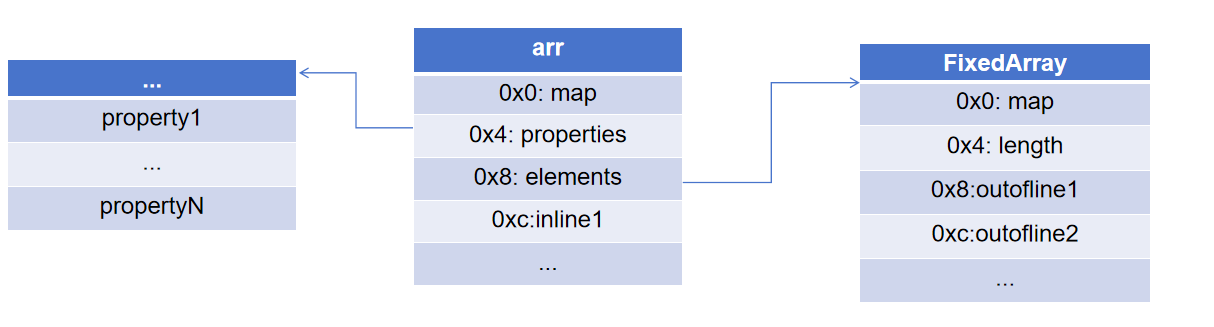
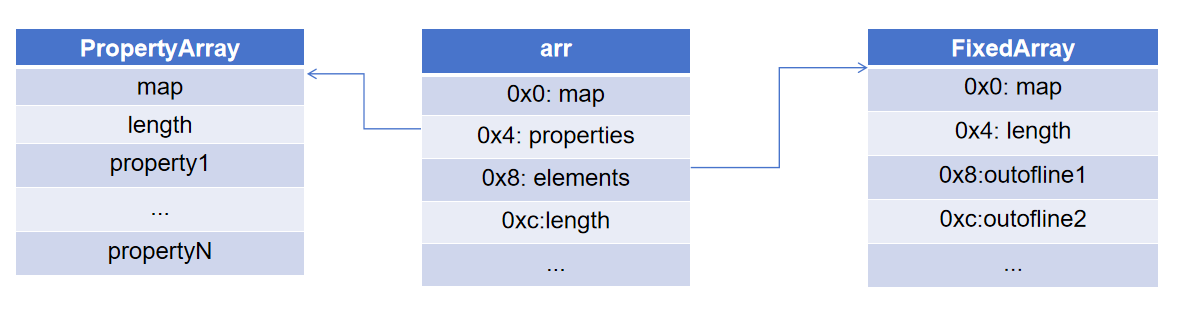
Site updated: 2024-12-20 15:33:05

diff --git a/2024/12/11/V8-数组的内存布局/index.html b/2024/12/11/V8-数组的内存布局/index.html
@@ -30,7 +30,7 @@
 <meta property="og:locale" content="en_US">
 <meta property="og:image" content="http://example.com/images/redefine-og.webp">
 <meta property="article:published_time" content="2024-12-11T11:28:50.000Z">
-<meta property="article:modified_time" content="2024-12-11T12:11:57.239Z">
+<meta property="article:modified_time" content="2024-12-20T07:31:19.917Z">
 <meta property="article:author" content="John Doe">
 <meta name="twitter:card" content="summary">
 <meta name="twitter:image" content="http://example.com/images/redefine-og.webp">
@@ -266,8 +266,8 @@
     
         <span class="article-date article-meta-item">
             <i class="fa-regular fa-wrench"></i>&nbsp;
-            <span class="desktop">2024-12-11 20:11:57</span>
-            <span class="mobile">2024-12-11 20:11:57</span>
+            <span class="desktop">2024-12-20 15:31:19</span>
+            <span class="mobile">2024-12-20 15:31:19</span>
             <span class="hover-info">Updated</span>
         </span>
     
@@ -294,10 +294,15 @@
 
 
 		<div class="article-content markdown-body px-2 sm:px-6 md:px-8 pb-8">
-			<h1 id="浮点型数组"><a href="#浮点型数组" class="headerlink" title="浮点型数组"></a>浮点型数组</h1><img lazyload src="/images/loading.svg" data-src="/2024/12/11/V8-%E6%95%B0%E7%BB%84%E7%9A%84%E5%86%85%E5%AD%98%E5%B8%83%E5%B1%80/image-1.png" class title="This is an 1.png">
+			<h1 id="浮点型数组"><a href="#浮点型数组" class="headerlink" title="浮点型数组"></a>浮点型数组</h1><h3 id="定义方式：let-arr-1-1-2-2-3-3-4-4"><a href="#定义方式：let-arr-1-1-2-2-3-3-4-4" class="headerlink" title="定义方式：let arr[1.1, 2.2, 3.3, 4.4];"></a>定义方式：let arr[1.1, 2.2, 3.3, 4.4];</h3><p>js数组也可以使用属性的形式访问: 例如arr.a&#x3D;1; 这个属性a在PropertyArray中的outofline中存储。</p>
+<img lazyload src="/images/loading.svg" data-src="/2024/12/11/V8-%E6%95%B0%E7%BB%84%E7%9A%84%E5%86%85%E5%AD%98%E5%B8%83%E5%B1%80/image-1.png" class title="This is an 1.png">
 
 
-<h1 id="对象型数组"><a href="#对象型数组" class="headerlink" title="对象型数组"></a>对象型数组</h1><img lazyload src="/images/loading.svg" data-src="/2024/12/11/V8-%E6%95%B0%E7%BB%84%E7%9A%84%E5%86%85%E5%AD%98%E5%B8%83%E5%B1%80/image-2.png" class title="This is an 2.png">
+<h1 id="对象型数组"><a href="#对象型数组" class="headerlink" title="对象型数组"></a>对象型数组</h1><h3 id="定义方式：let-arr-1-2"><a href="#定义方式：let-arr-1-2" class="headerlink" title="定义方式：let arr[{1},{2}];"></a>定义方式：let arr[{1},{2}];</h3><img lazyload src="/images/loading.svg" data-src="/2024/12/11/V8-%E6%95%B0%E7%BB%84%E7%9A%84%E5%86%85%E5%AD%98%E5%B8%83%E5%B1%80/image-2.png" class title="This is an 2.png">
+
+<h1 id="js对象"><a href="#js对象" class="headerlink" title="js对象"></a>js对象</h1><h3 id="定义方式：let-v"><a href="#定义方式：let-v" class="headerlink" title="定义方式：let v&#x3D;{};"></a>定义方式：let v&#x3D;{};</h3><p>js对象也可以使用下标的形式访问: v[0]&#x3D;1; 这个会在FixedArray中的element[0]处存储</p>
+<img lazyload src="/images/loading.svg" data-src="/2024/12/11/V8-%E6%95%B0%E7%BB%84%E7%9A%84%E5%86%85%E5%AD%98%E5%B8%83%E5%B1%80/image-3.png" class title="This is an 3.png">
+
 
 
 		</div>
@@ -313,7 +318,7 @@
         
             <li>
                 <strong>Updated at
-                    :</strong> 2024-12-11 20:11:57
+                    :</strong> 2024-12-20 15:31:19
             </li>
         
         <li>
@@ -423,7 +428,7 @@
 	<div class="post-toc">
 		<div class="toc-title">On this page</div>
 		<div class="page-title">V8 数组的内存布局</div>
-		<ol class="nav"><li class="nav-item nav-level-1"><a class="nav-link" href="#%E6%B5%AE%E7%82%B9%E5%9E%8B%E6%95%B0%E7%BB%84"><span class="nav-text">浮点型数组</span></a></li><li class="nav-item nav-level-1"><a class="nav-link" href="#%E5%AF%B9%E8%B1%A1%E5%9E%8B%E6%95%B0%E7%BB%84"><span class="nav-text">对象型数组</span></a></li></ol>
+		<ol class="nav"><li class="nav-item nav-level-1"><a class="nav-link" href="#%E6%B5%AE%E7%82%B9%E5%9E%8B%E6%95%B0%E7%BB%84"><span class="nav-text">浮点型数组</span></a><ol class="nav-child"><li class="nav-item nav-level-3"><a class="nav-link" href="#%E5%AE%9A%E4%B9%89%E6%96%B9%E5%BC%8F%EF%BC%9Alet-arr-1-1-2-2-3-3-4-4"><span class="nav-text">定义方式：let arr[1.1, 2.2, 3.3, 4.4];</span></a></li></ol></li></ol></li><li class="nav-item nav-level-1"><a class="nav-link" href="#%E5%AF%B9%E8%B1%A1%E5%9E%8B%E6%95%B0%E7%BB%84"><span class="nav-text">对象型数组</span></a><ol class="nav-child"><li class="nav-item nav-level-3"><a class="nav-link" href="#%E5%AE%9A%E4%B9%89%E6%96%B9%E5%BC%8F%EF%BC%9Alet-arr-1-2"><span class="nav-text">定义方式：let arr[{1},{2}];</span></a></li></ol></li></ol></li><li class="nav-item nav-level-1"><a class="nav-link" href="#js%E5%AF%B9%E8%B1%A1"><span class="nav-text">js对象</span></a><ol class="nav-child"><li class="nav-item nav-level-3"><a class="nav-link" href="#%E5%AE%9A%E4%B9%89%E6%96%B9%E5%BC%8F%EF%BC%9Alet-v"><span class="nav-text">定义方式：let v&#x3D;{};</span></a></li></ol></li></ol></li></ol>
 
 	</div>
 </div>

diff --git a/categories/index.html b/categories/index.html
@@ -23,14 +23,14 @@
         
         <meta name="description" content="Hexo Theme Redefine, Redefine Your Hexo Journey.">
 <meta property="og:type" content="website">
-<meta property="og:title" content="categories">
+<meta property="og:title" content="V8 Exploit">
 <meta property="og:url" content="http://example.com/categories/index.html">
 <meta property="og:site_name" content="Hexo">
 <meta property="og:description" content="Hexo Theme Redefine, Redefine Your Hexo Journey.">
 <meta property="og:locale" content="en_US">
 <meta property="og:image" content="http://example.com/images/redefine-og.webp">
 <meta property="article:published_time" content="2024-12-11T17:17:34.000Z">
-<meta property="article:modified_time" content="2024-12-11T17:17:34.987Z">
+<meta property="article:modified_time" content="2024-12-12T07:56:59.214Z">
 <meta property="article:author" content="John Doe">
 <meta name="twitter:card" content="summary">
 <meta name="twitter:image" content="http://example.com/images/redefine-og.webp">
@@ -45,7 +45,7 @@
     
     <title>
         
-            Categories | zhaojunqi&#39;s blog
+            V8 Exploit | zhaojunqi&#39;s blog
         
     </title>
 
@@ -237,7 +237,7 @@
 
 	
 	<h1 class="page-title-header">
-	categories
+	V8 Exploit
 </h1>
 <div class="category-list-content">
 	

diff --git a/index.html b/index.html
@@ -509,12 +509,13 @@
                     <div class="home-article-content markdown-body">
                         
                             
-                            浮点型数组
+                            浮点型数组定义方式：let arr[1.1, 2.2, 3.3, 4.4];js数组也可以使用属性的形式访问: 例如arr.a&#x3D;1; 这个属性a在PropertyArray中的outofline中存储。
 
 
-对象型数组
 
+对象型数组定义方式：let arr[{1},{2}];
 
+js对象定义方式：let v&#x3D;{};js对象也可以使用下标的形式访问: v[0]&#x3D;1; 这个会在...
                         
                     </div>
 

diff --git a/css/style.css b/css/style.css
@@ -1527,11 +1527,11 @@ pre .deletion {
   font-weight: 350;
 }
 .home-banner-container .content .description p i {
-  font-size: 1.5rem;
+  font-size: 2rem;
   font-style: normal;
 }
 .home-banner-container .content .description p span {
-  font-size: 1.575rem;
+  font-size: 2.1rem;
 }
 @media (max-width: 768px) {
   .home-banner-container .content .description {
